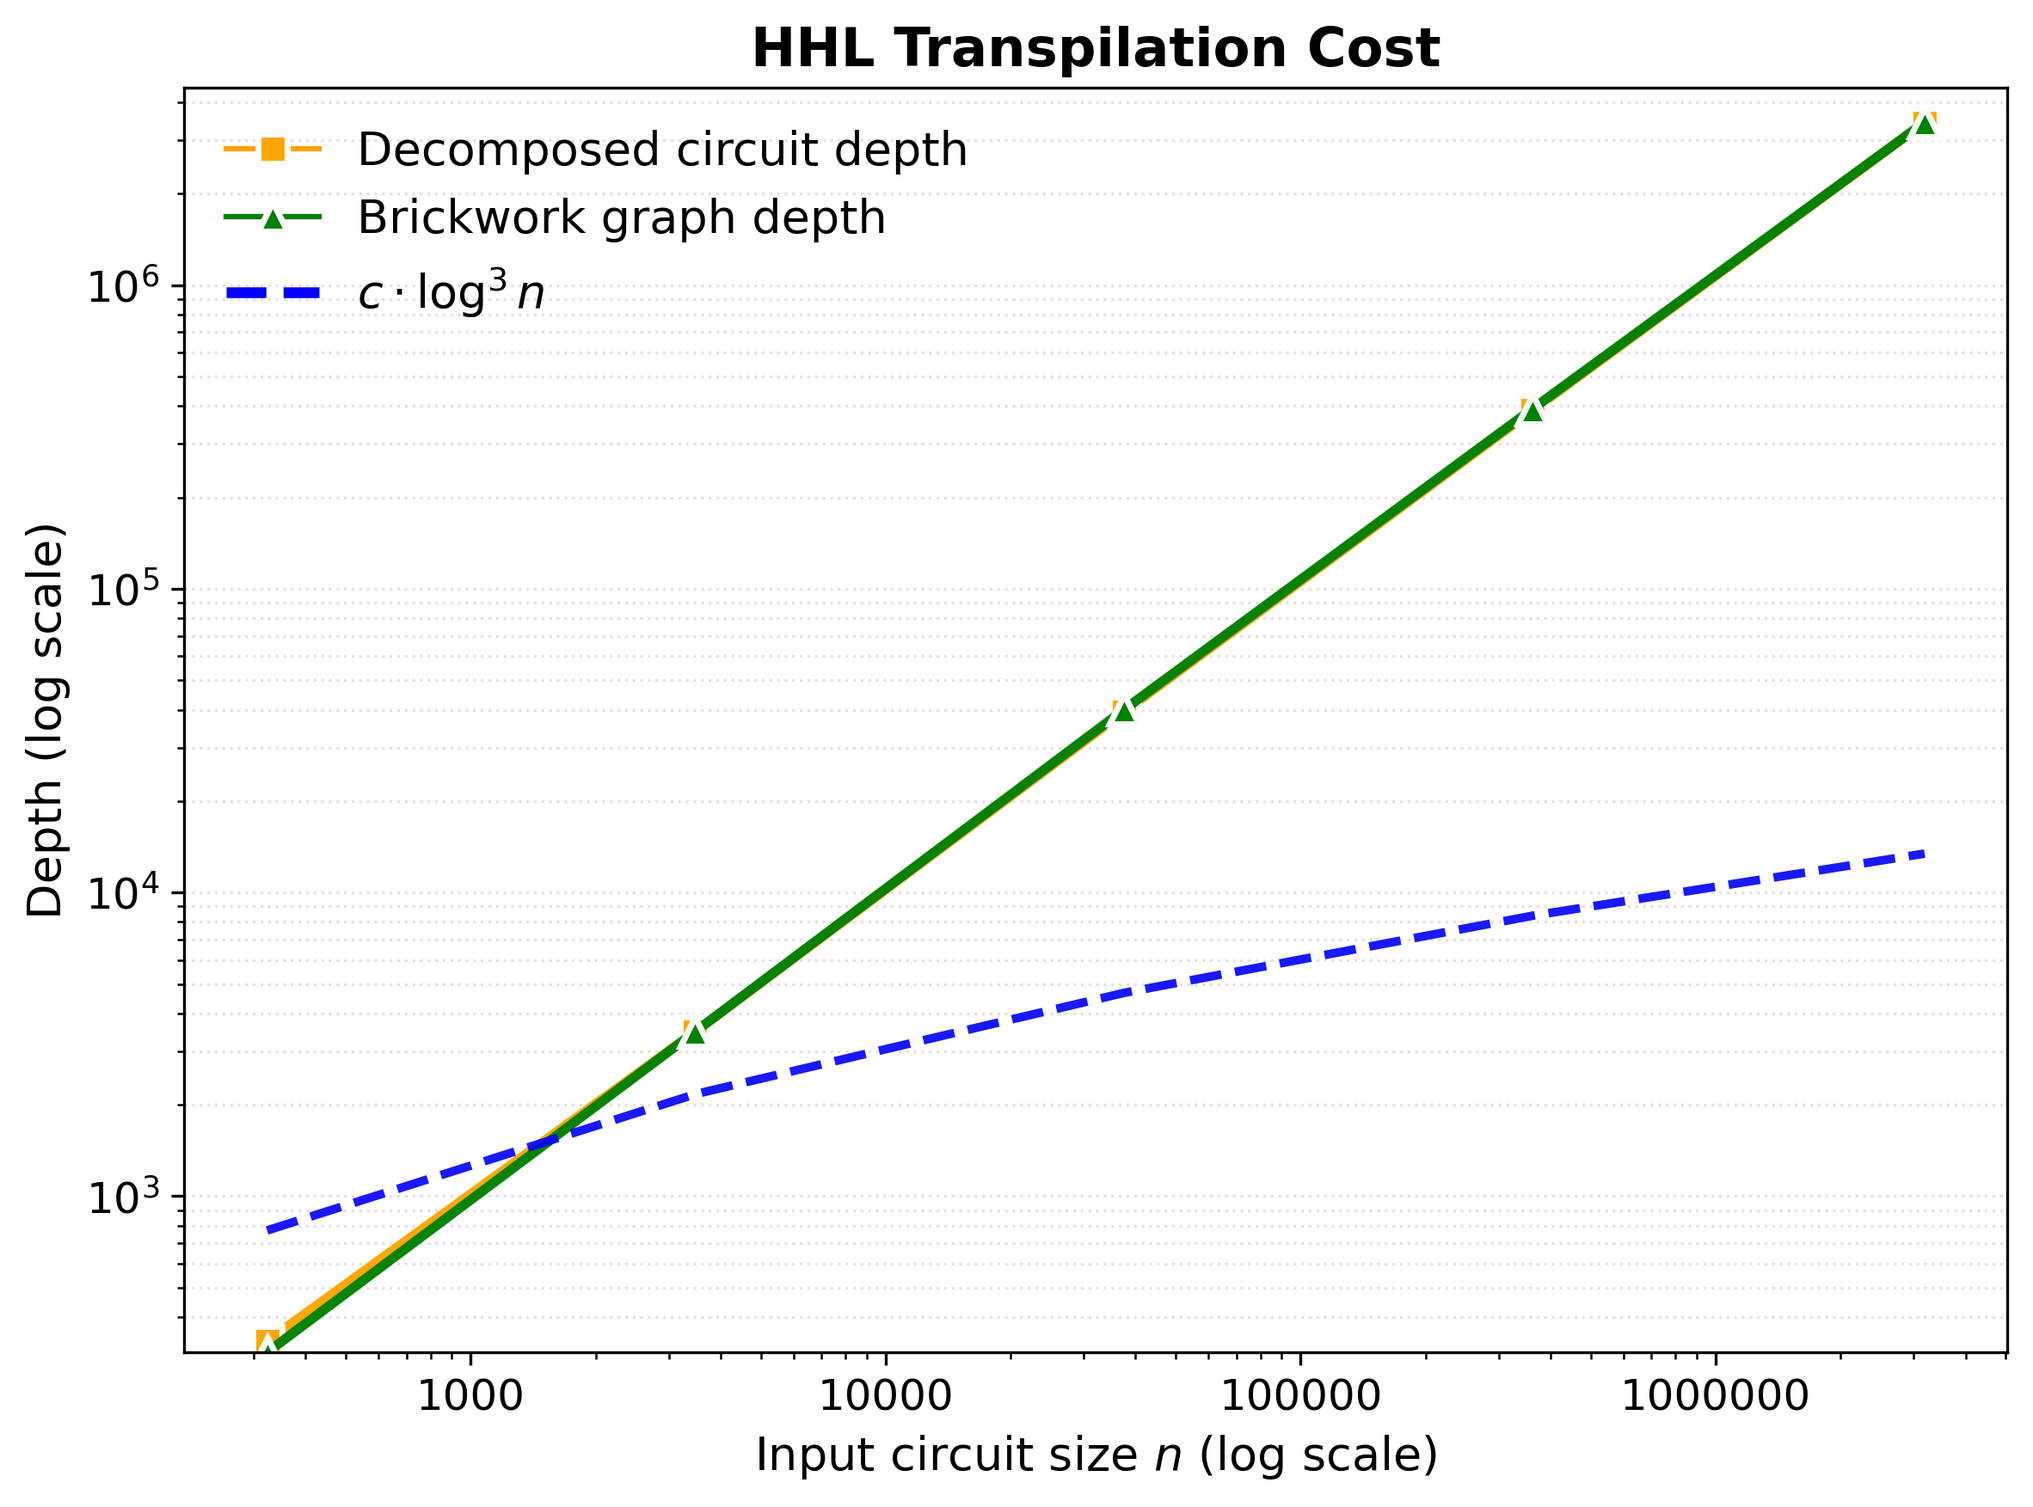
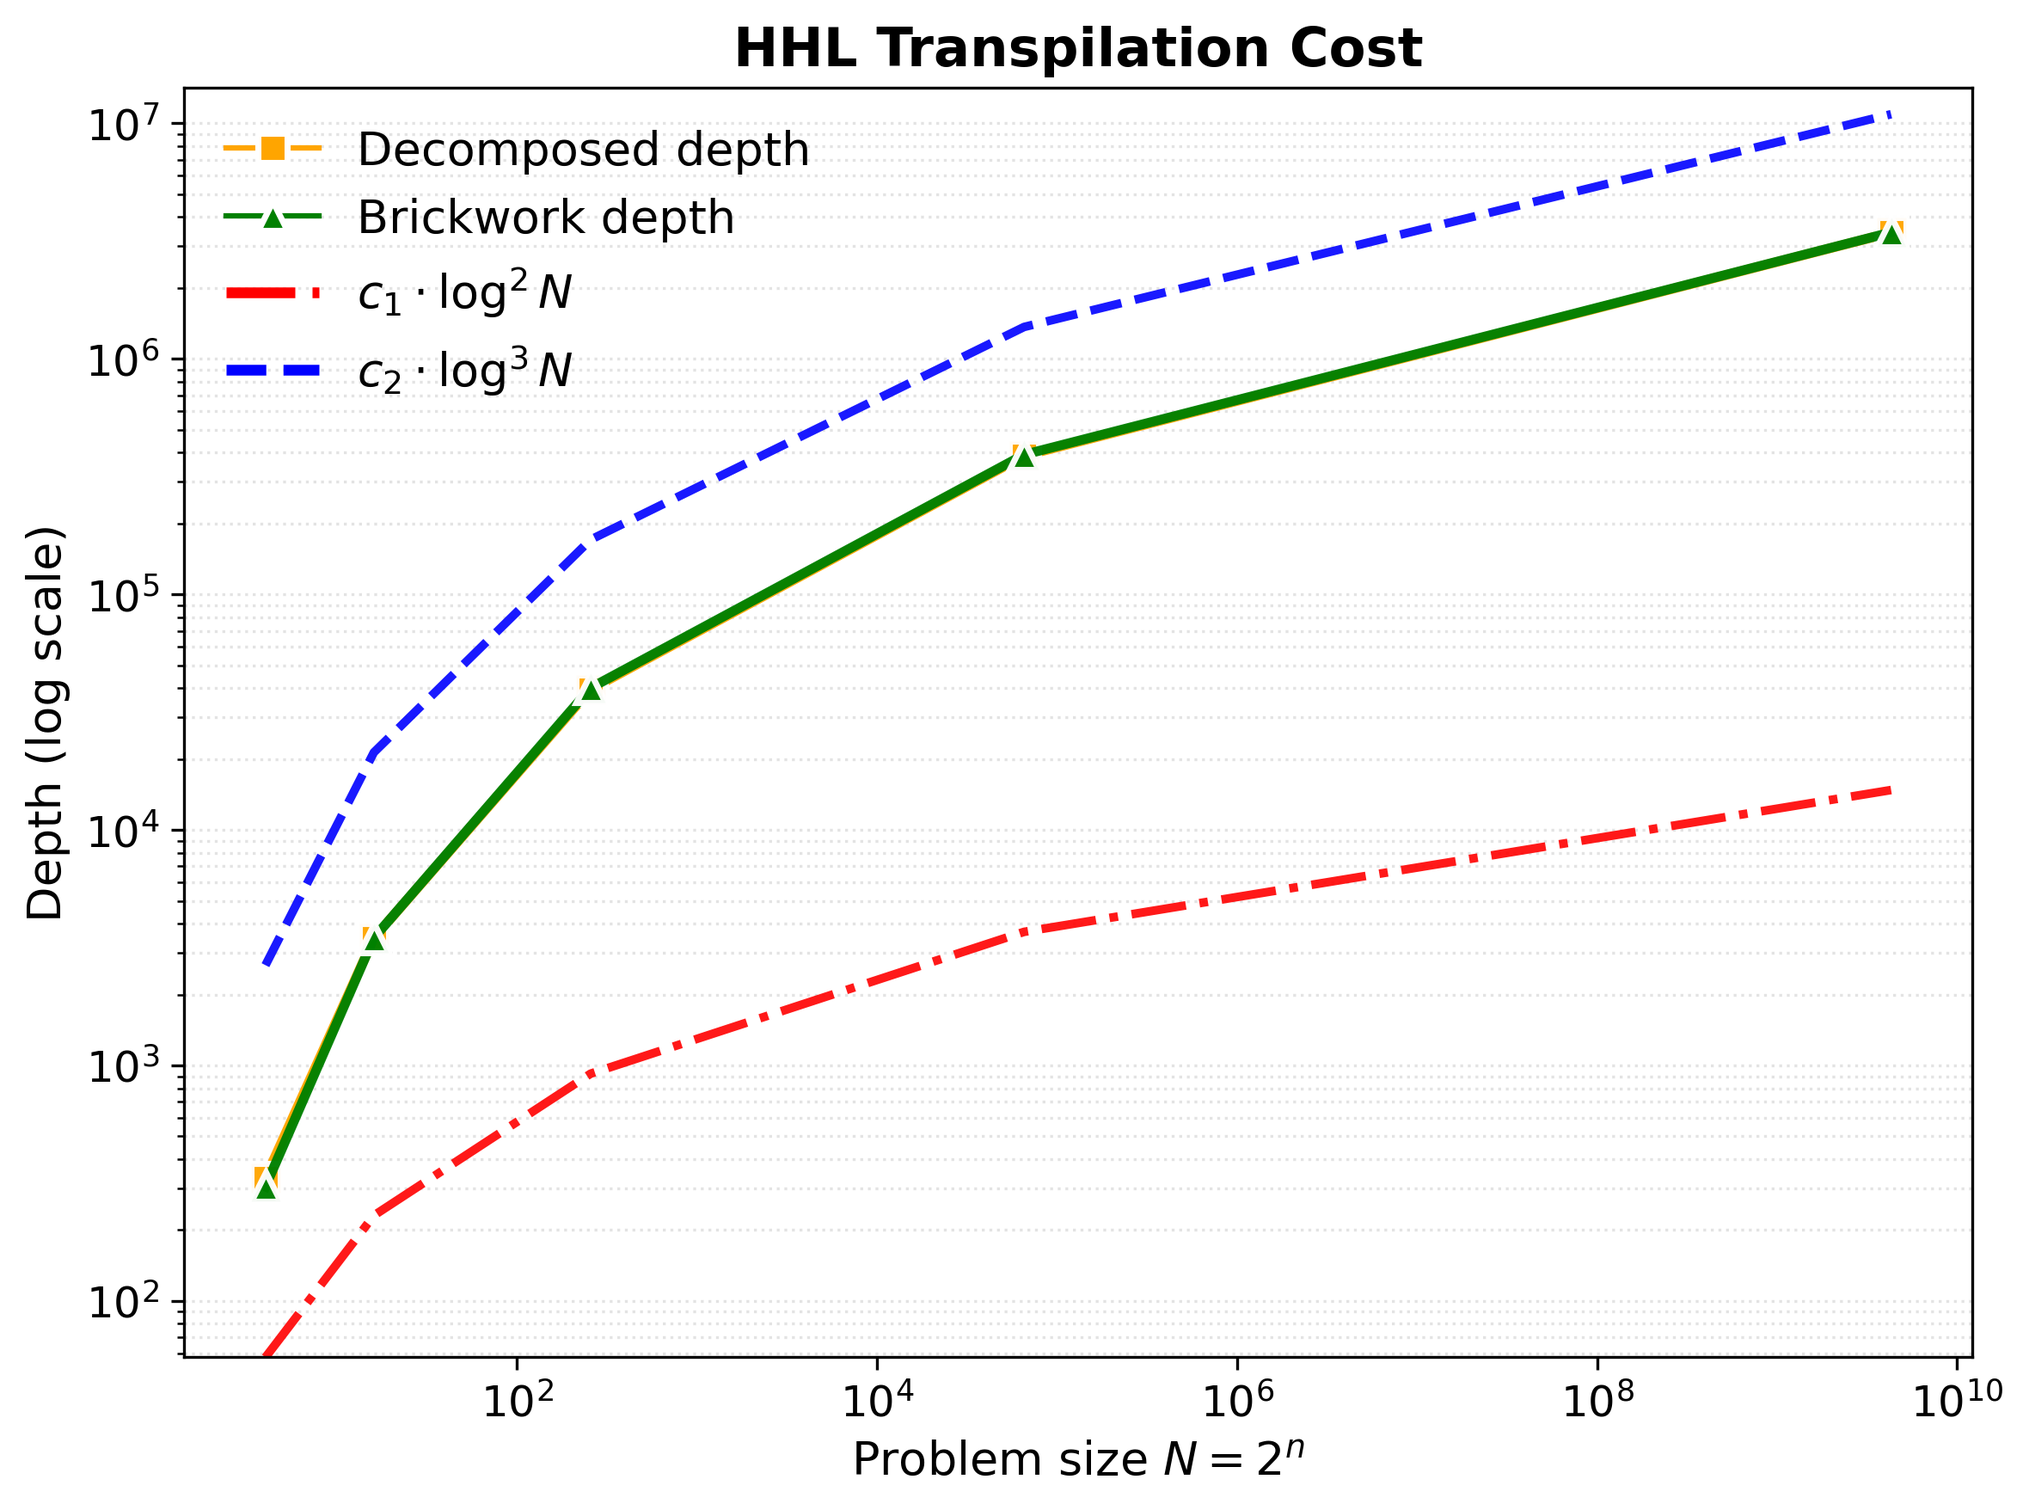
Fixed some ambiguous notation in experimental plots

diff --git a/src/brickwork_transpiler/experiments/qft_transpilation.py b/src/brickwork_transpiler/experiments/qft_transpilation.py
@@ -3,6 +3,7 @@ import os
 import csv
 
 from qiskit.circuit.library import QFT
+from qiskit.pulse import num_qubits
 
 from src.brickwork_transpiler import brickwork_transpiler, circuits
 
@@ -36,22 +37,22 @@ def experiment_qft_transpilation():
     max_size = 30
 
 
-    for num_qubits in range(3, max_size):
-
-        # Build the canonical QFT from the library
-        qft_circ = QFT(num_qubits=num_qubits,
-                       approximation_degree=0,  # exact QFT
-                       do_swaps=True,
-                       inverse=False,
-                       name=f"QFT_{num_qubits}")
-
-        # print("Transpiling...")
-        instr_mat = brickwork_transpiler.transpile(qft_circ, routing_method='sabre', layout_method='sabre',
-                                                   return_mat=True, file_writer=writer)
-
-        writer.set("transpiled_depth", len(instr_mat[0]))
-        writer.set("original_depth", qft_circ.depth())
-        writer.flush()
+    # for num_qubits in range(3, max_size):
+    #
+    #     # Build the canonical QFT from the library
+    #     qft_circ = QFT(num_qubits=num_qubits,
+    #                    approximation_degree=0,  # exact QFT
+    #                    do_swaps=True,
+    #                    inverse=False,
+    #                    name=f"QFT_{num_qubits}")
+    #
+    #     # print("Transpiling...")
+    #     instr_mat = brickwork_transpiler.transpile(qft_circ, routing_method='sabre', layout_method='sabre',
+    #                                                return_mat=True, file_writer=writer)
+    #
+    #     writer.set("transpiled_depth", len(instr_mat[0]))
+    #     writer.set("original_depth", qft_circ.depth())
+    #     writer.flush()
 
     plot_single_qft_dataset("Thesis_qft_transpilation_cost.png")
 
@@ -61,6 +62,13 @@ import numpy as np
 import matplotlib.pyplot as plt
 import matplotlib.ticker as mticker
 from matplotlib.lines import Line2D
+import os
+import numpy as np
+import pandas as pd
+import matplotlib.pyplot as plt
+import matplotlib.ticker as mticker
+from matplotlib.lines import Line2D
+
 
 def plot_single_qft_dataset(name_of_plot: str = "qft_default.png"):
     base_dir = "src/brickwork_transpiler/experiments/data/output_data/"
@@ -76,27 +84,44 @@ def plot_single_qft_dataset(name_of_plot: str = "qft_default.png"):
     decomposed_depth = df["decomposed_depth"].to_numpy()
     transpiled_depth = df["transpiled_depth"].to_numpy()
 
+    n_qubits = np.arange(3, 3 + len(df))  # 3,4,5,...
+
     # Reference curve  c·√n·log²n
-    c         = 4.0
-    nlogn_ref = c * np.sqrt(n) * np.log(n)**2
+    c         = 50
+    nlogn_ref = c * np.sqrt(n_qubits) * np.log(n_qubits)**2
+
+    # -------------------------------------------------------
+    # NEW: qubit-count reference  log²(n_qubits)
+    #        first row = 3 qubits, then +1 per row
+    # -------------------------------------------------------
+    log2_ref   =  10 * np.log(n_qubits) ** 2          # no prefactor
+    # -------------------------------------------------------
 
     # -------------------------------------------------------
     # Styling
     # -------------------------------------------------------
     colours = {"decomposed_depth": "orange",
                "transpiled_depth": "green",
-               "nlogn_ref":        "blue"}
+               "nlogn_ref":        "blue",
+               "log2_ref":         "red"}        # NEW colour
     markers = {"decomposed_depth": "s",
                "transpiled_depth": "^"}
     labels  = {"decomposed_depth": "Decomposed circuit depth",
                "transpiled_depth": "Brickwork graph depth",
-               "nlogn_ref":        r"$c \cdot \sqrt{n}\,\log^2 n$"}
+               "nlogn_ref":        r"$c_1 \cdot \sqrt{N}\,\log^2 N$",
+               "log2_ref":         r"$c_2 \cdot \log^{2} N$"}
 
     # show at most ~8 markers per curve
     mark_every = max(1, len(n) // 8)
 
-    y_min = max(1, np.min([decomposed_depth, transpiled_depth, nlogn_ref]))
-    y_max = np.max([decomposed_depth, transpiled_depth, nlogn_ref]) * 1.3
+    y_min = max(1, np.min([*decomposed_depth,
+                           *transpiled_depth,
+                           *nlogn_ref,
+                           *log2_ref]))
+    y_max = np.max([*decomposed_depth,
+                    *transpiled_depth,
+                    *nlogn_ref,
+                    *log2_ref]) * 1.3
 
     # -------------------------------------------------------
     # Figure
@@ -107,15 +132,16 @@ def plot_single_qft_dataset(name_of_plot: str = "qft_default.png"):
         ax.plot(n, locals()[key],
                 label=labels[key],
                 marker=markers[key],
-                markevery=mark_every,          # <<< sparsify markers
+                markevery=mark_every,
                 linestyle="-",
                 color=colours[key],
                 linewidth=2.7,
-                markersize=8,                  # <<< slightly smaller
+                markersize=8,
                 alpha=0.97,
                 markeredgecolor="white",
                 markeredgewidth=1.7)
 
+    # Guide curves (no markers)
     ax.plot(n, nlogn_ref,
             label=labels["nlogn_ref"],
             color=colours["nlogn_ref"],
@@ -123,20 +149,27 @@ def plot_single_qft_dataset(name_of_plot: str = "qft_default.png"):
             linewidth=2.4,
             alpha=0.9)
 
+    ax.plot(n, log2_ref,
+            label=labels["log2_ref"],
+            color=colours["log2_ref"],
+            linestyle="-.",
+            linewidth=2.4,
+            alpha=0.9)
+
     # -------------------------------------------------------
     # Axes and legend
     # -------------------------------------------------------
     ax.set_title("QFT Transpilation Cost", fontsize=15, fontweight="bold")
-    ax.set_xlabel(r"Input circuit size $n$ (log scale)", fontsize=13)
+    ax.set_xlabel(r"Input circuit size (log scale)", fontsize=13)
     ax.set_ylabel(r"Depth (log scale)", fontsize=13)
     ax.set_xscale("log")
     ax.set_yscale("log")
     ax.set_ylim(y_min, y_max)
 
     ax.xaxis.set_major_locator(mticker.LogLocator(base=10, numticks=10))
-    ax.xaxis.set_major_formatter(mticker.FuncFormatter(
-        lambda v, _: f"{int(v):d}" if v >= 1 else ""))
-
+    ax.xaxis.set_major_formatter(
+        mticker.FuncFormatter(lambda v, _: f"{int(v):d}" if v >= 1 else "")
+    )
     ax.xaxis.set_minor_locator(mticker.LogLocator(base=10,
                                                   subs=np.arange(1, 10) * 0.1,
                                                   numticks=100))
@@ -146,14 +179,18 @@ def plot_single_qft_dataset(name_of_plot: str = "qft_default.png"):
     ax.grid(axis="y", which="both", linestyle=":", alpha=0.35)
 
     legend_handles = [
-        Line2D([0], [0], color=colours["decomposed_depth"], marker=markers["decomposed_depth"],
-               linestyle="-", markersize=8, label=labels["decomposed_depth"],
+        Line2D([0], [0], color=colours["decomposed_depth"],
+               marker=markers["decomposed_depth"], linestyle="-",
+               markersize=8, label=labels["decomposed_depth"],
                markeredgecolor="white", markeredgewidth=1.7),
-        Line2D([0], [0], color=colours["transpiled_depth"], marker=markers["transpiled_depth"],
-               linestyle="-", markersize=8, label=labels["transpiled_depth"],
+        Line2D([0], [0], color=colours["transpiled_depth"],
+               marker=markers["transpiled_depth"], linestyle="-",
+               markersize=8, label=labels["transpiled_depth"],
                markeredgecolor="white", markeredgewidth=1.7),
-        Line2D([0], [0], color=colours["nlogn_ref"], linestyle="--", linewidth=3,
-               label=labels["nlogn_ref"]),
+        Line2D([0], [0], color=colours["nlogn_ref"], linestyle="--",
+               linewidth=3, label=labels["nlogn_ref"]),
+        Line2D([0], [0], color=colours["log2_ref"], linestyle="-.",
+               linewidth=3, label=labels["log2_ref"]),
     ]
     ax.legend(handles=legend_handles, fontsize=13, frameon=False, loc="best")
 

diff --git a/src/brickwork_transpiler/experiments/hhl_transpilation.py b/src/brickwork_transpiler/experiments/hhl_transpilation.py
@@ -15,7 +15,7 @@ def get_writer(file_name: str,
                file_path: str = "src/brickwork_transpiler/experiments/data/output_data/"):
 
     header = ["decomposed_depth", "transpiled_depth", "original_depth",
-              "num_gates_original", "num_gates_transpiled"]
+              "num_gates_original", "num_gates_transpiled", "N"]
     full_path = os.path.join(file_path, file_name)
 
     os.makedirs(file_path, exist_ok=True)
@@ -83,6 +83,7 @@ def experiment_hhl_transpilation(max_qubits: int = 5):
     #     # 4) Collect metrics
     #     writer.set("original_depth",      circ.depth())
     #     writer.set("transpiled_depth",    len(instr_mat[0]))
+    #     writer.set("N",    2**n)
     #     writer.flush()
 
     plot_single_hhl_dataset("hhl_transpilation_cost_experiment_plot")
@@ -94,48 +95,68 @@ import pandas as pd
 import matplotlib.pyplot as plt
 import matplotlib.ticker as mticker
 from matplotlib.lines import Line2D
+import os
+import numpy as np
+import pandas as pd
+import matplotlib.pyplot as plt
+import matplotlib.ticker as mticker
+from matplotlib.lines import Line2D
 
 
 def plot_single_hhl_dataset(name_of_plot: str = "hhl_default.png"):
     """
     Visualise brickwork–transpilation cost for the HHL circuits stored in
-    experiments_hhl.csv.  The file must contain (at least) the columns
-        decomposed_depth, transpiled_depth, num_gates_original
-    produced by experiment_hhl_transpilation().
+    experiments_hhl.csv.
+
+    Required CSV columns:
+        decomposed_depth, transpiled_depth, N
+
+    Three curves are shown:
+        • decomposed circuit depth
+        • brickwork-transpiled depth
+        • c·log²(n)                      ← NEW
+    plus the original reference c·log³(n).
+
+    The x-axis is n = 2^N (powers of two displayed as clean 10^k ticks).
     """
     # --------------------------------------------------------------------
-    # Load data   – drop n = 0 to avoid log(0) singularities
+    # Load data
     # --------------------------------------------------------------------
     base_dir = "src/brickwork_transpiler/experiments/data/output_data/"
     filename = "experiments_hhl.csv"
 
     df = pd.read_csv(os.path.join(base_dir, filename))
-    df = df[df["num_gates_original"] > 0]
+    df = df[df["N"] > 0]                      # avoid log(0)
 
-    n                = df["num_gates_original"].to_numpy()       # x-axis
+    n                = 2 ** df["N"].to_numpy()              # x-axis: 2^N
     decomposed_depth = df["decomposed_depth"].to_numpy()
     transpiled_depth = df["transpiled_depth"].to_numpy()
 
-    # Reference curve  c·log³ n  (poly-log depth expected for HHL)
-    c      = 4.0
-    ref    = c * np.log(n) ** 3
+    # Reference curves
+    c          = 1000
+    ref_log3   = c * np.log(n) ** 3
+    ref_log2   = 30 * np.log(n) ** 2              # ← NEW curve
 
     # --------------------------------------------------------------------
     # Styling
     # --------------------------------------------------------------------
     colours = {"decomposed_depth": "orange",
                "transpiled_depth": "green",
-               "ref":              "blue"}
+               "ref_log2":         "red",
+               "ref_log3":         "blue"}
     markers = {"decomposed_depth": "s",
                "transpiled_depth": "^"}
-    labels  = {"decomposed_depth": "Decomposed circuit depth",
-               "transpiled_depth": "Brickwork graph depth",
-               "ref":              r"$c \cdot \log^{3} n$"}
+    labels  = {"decomposed_depth": "Decomposed depth",
+               "transpiled_depth": "Brickwork depth",
+               "ref_log2":         r"$c_1 \cdot \log^{2} N$",
+               "ref_log3":         r"$c_2 \cdot \log^{3} N$"}
 
-    mark_every = max(1, len(n) // 8)                      # sparsify markers
+    mark_every = max(1, len(n) // 8)
 
-    y_min = max(1, np.min([decomposed_depth, transpiled_depth, ref]))
-    y_max = np.max([decomposed_depth, transpiled_depth, ref]) * 1.3
+    y_min = max(1, np.min([*decomposed_depth, *transpiled_depth,
+                           *ref_log2, *ref_log3]))
+    y_max = np.max([*decomposed_depth, *transpiled_depth,
+                    *ref_log2, *ref_log3]) * 1.3
 
     # --------------------------------------------------------------------
     # Figure
@@ -155,10 +176,17 @@ def plot_single_hhl_dataset(name_of_plot: str = "hhl_default.png"):
                 markeredgecolor="white",
                 markeredgewidth=1.7)
 
-    ax.plot(n, ref,
-            label=labels["ref"],
-            color=colours["ref"],
+    # Reference curves (no markers)
+    ax.plot(n, ref_log3,
+            label=labels["ref_log3"],
+            color=colours["ref_log3"],
             linestyle="--",
+            linewidth=2.4,
+            alpha=0.9)
+    ax.plot(n, ref_log2,
+            label=labels["ref_log2"],
+            color=colours["ref_log2"],
+            linestyle="-.",
             linewidth=2.4,
             alpha=0.9)
 
@@ -166,25 +194,21 @@ def plot_single_hhl_dataset(name_of_plot: str = "hhl_default.png"):
     # Axes and legend
     # --------------------------------------------------------------------
     ax.set_title("HHL Transpilation Cost", fontsize=15, fontweight="bold")
-    ax.set_xlabel(r"Input circuit size $n$ (log scale)", fontsize=13)
-    ax.set_ylabel(r"Depth (log scale)", fontsize=13)
+    ax.set_xlabel(r"Problem size $N = 2^{n}$", fontsize=13)
+    ax.set_ylabel("Depth (log scale)", fontsize=13)
     ax.set_xscale("log")
     ax.set_yscale("log")
     ax.set_ylim(y_min, y_max)
 
-    ax.xaxis.set_major_locator(mticker.LogLocator(base=10, numticks=10))
-    ax.xaxis.set_major_formatter(
-        mticker.FuncFormatter(lambda v, _: f"{int(v):d}" if v >= 1 else "")
-    )
-    ax.xaxis.set_minor_locator(mticker.LogLocator(base=10,
-                                                  subs=np.arange(1, 10) * 0.1,
-                                                  numticks=100))
-    ax.xaxis.set_minor_formatter(mticker.NullFormatter())
+    # — clean powers-of-10 ticks only —
+    ax.xaxis.set_major_locator(mticker.LogLocator(base=10.0))
+    ax.xaxis.set_major_formatter(mticker.LogFormatterMathtext(base=10.0))
+    ax.xaxis.set_minor_locator(mticker.NullLocator())
 
     ax.tick_params(axis="both", which="major", labelsize=12)
     ax.grid(axis="y", which="both", linestyle=":", alpha=0.35)
 
-    # Custom legend with matching markers
+    # Legend (matching markers/linestyles)
     legend_handles = [
         Line2D([0], [0], color=colours["decomposed_depth"],
                marker=markers["decomposed_depth"], linestyle="-",
@@ -194,8 +218,10 @@ def plot_single_hhl_dataset(name_of_plot: str = "hhl_default.png"):
                marker=markers["transpiled_depth"], linestyle="-",
                markersize=8, label=labels["transpiled_depth"],
                markeredgecolor="white", markeredgewidth=1.7),
-        Line2D([0], [0], color=colours["ref"], linestyle="--", linewidth=3,
-               label=labels["ref"]),
+        Line2D([0], [0], color=colours["ref_log2"], linestyle="-.",
+               linewidth=3, label=labels["ref_log2"]),
+        Line2D([0], [0], color=colours["ref_log3"], linestyle="--",
+               linewidth=3, label=labels["ref_log3"]),
     ]
     ax.legend(handles=legend_handles, fontsize=13, frameon=False, loc="best")
 

diff --git a/src/brickwork_transpiler/main.py b/src/brickwork_transpiler/main.py
@@ -107,8 +107,8 @@ def main():
 
     # plot_qrs_full.plot_grover_database_scaling()
 
-    # qft_transpilation.experiment_qft_transpilation()
-    hhl_transpilation.experiment_hhl_transpilation(6)
+    qft_transpilation.experiment_qft_transpilation()
+    # hhl_transpilation.experiment_hhl_transpilation(6)
 
     # plot_qrs_data.plot_qrs_with_db_scaling_from_files(name_of_plot="thesis_qrs_plot_test")
 
